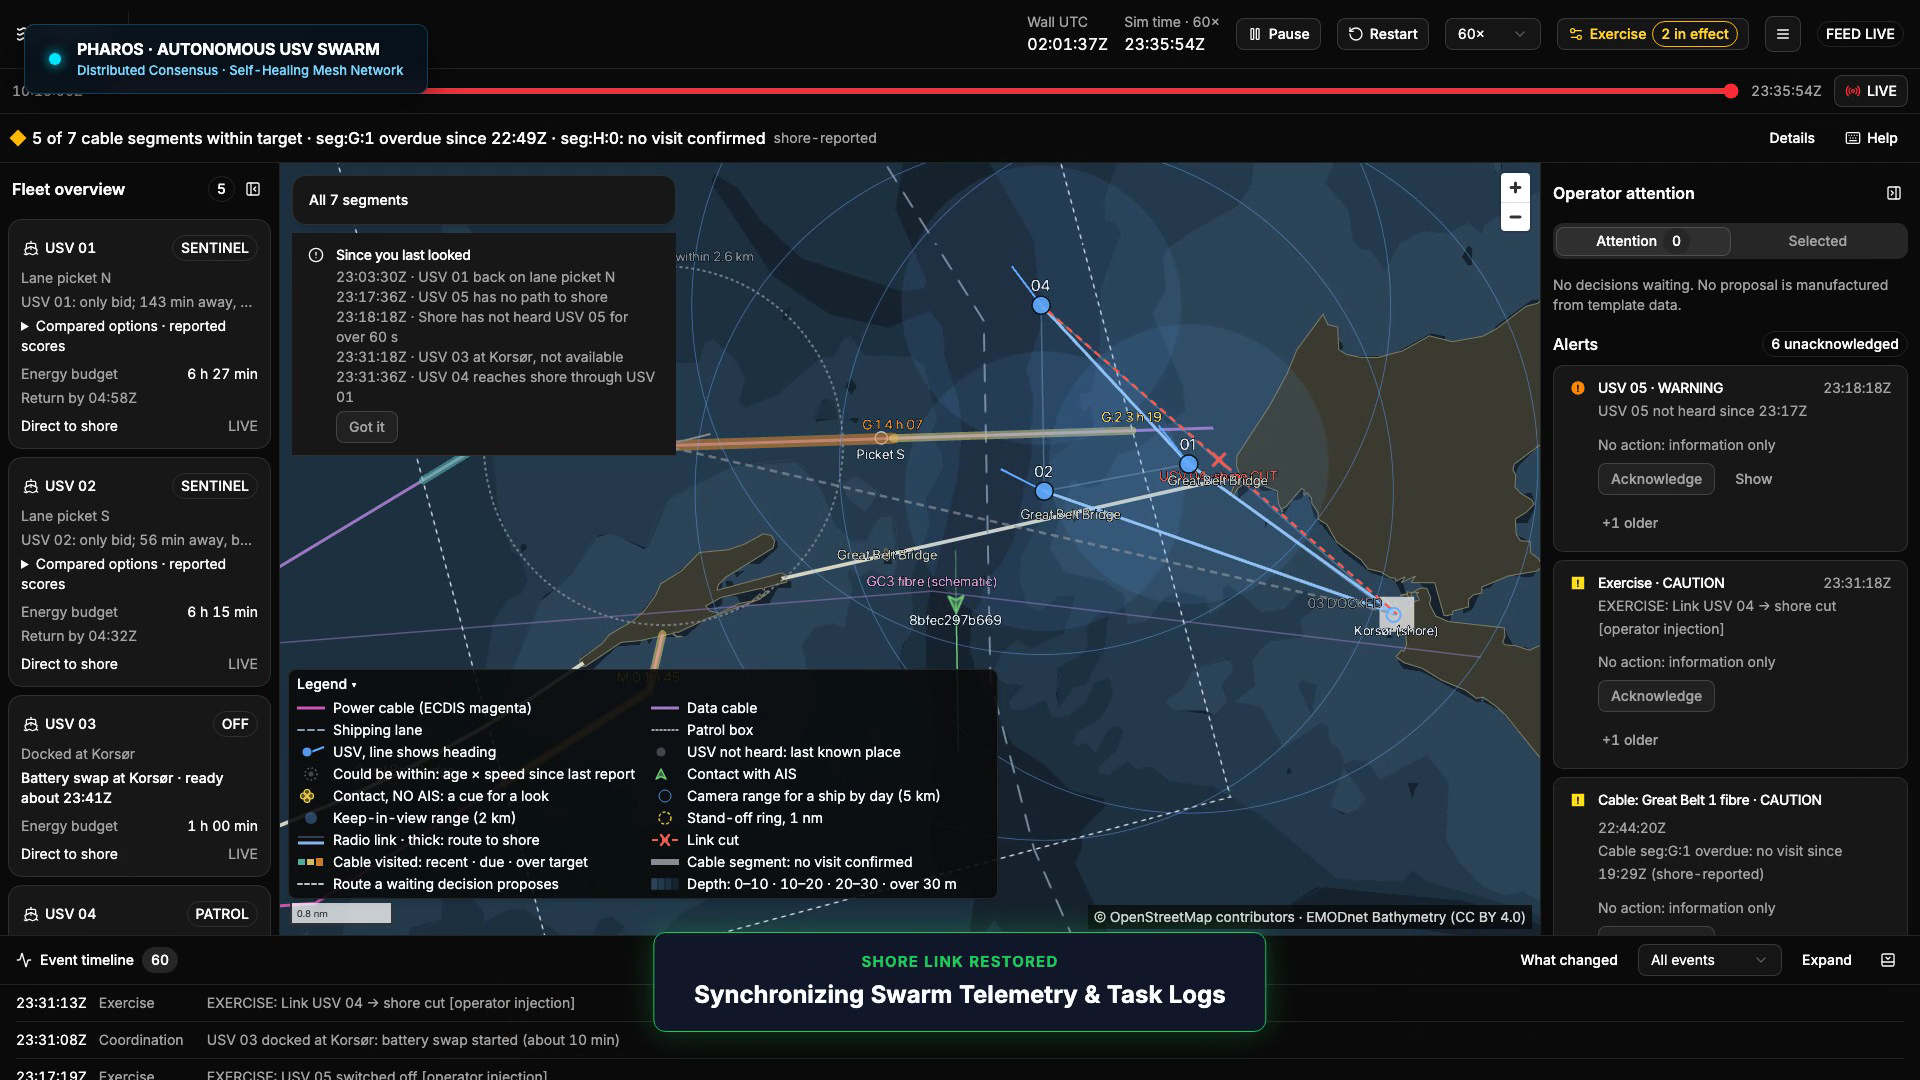
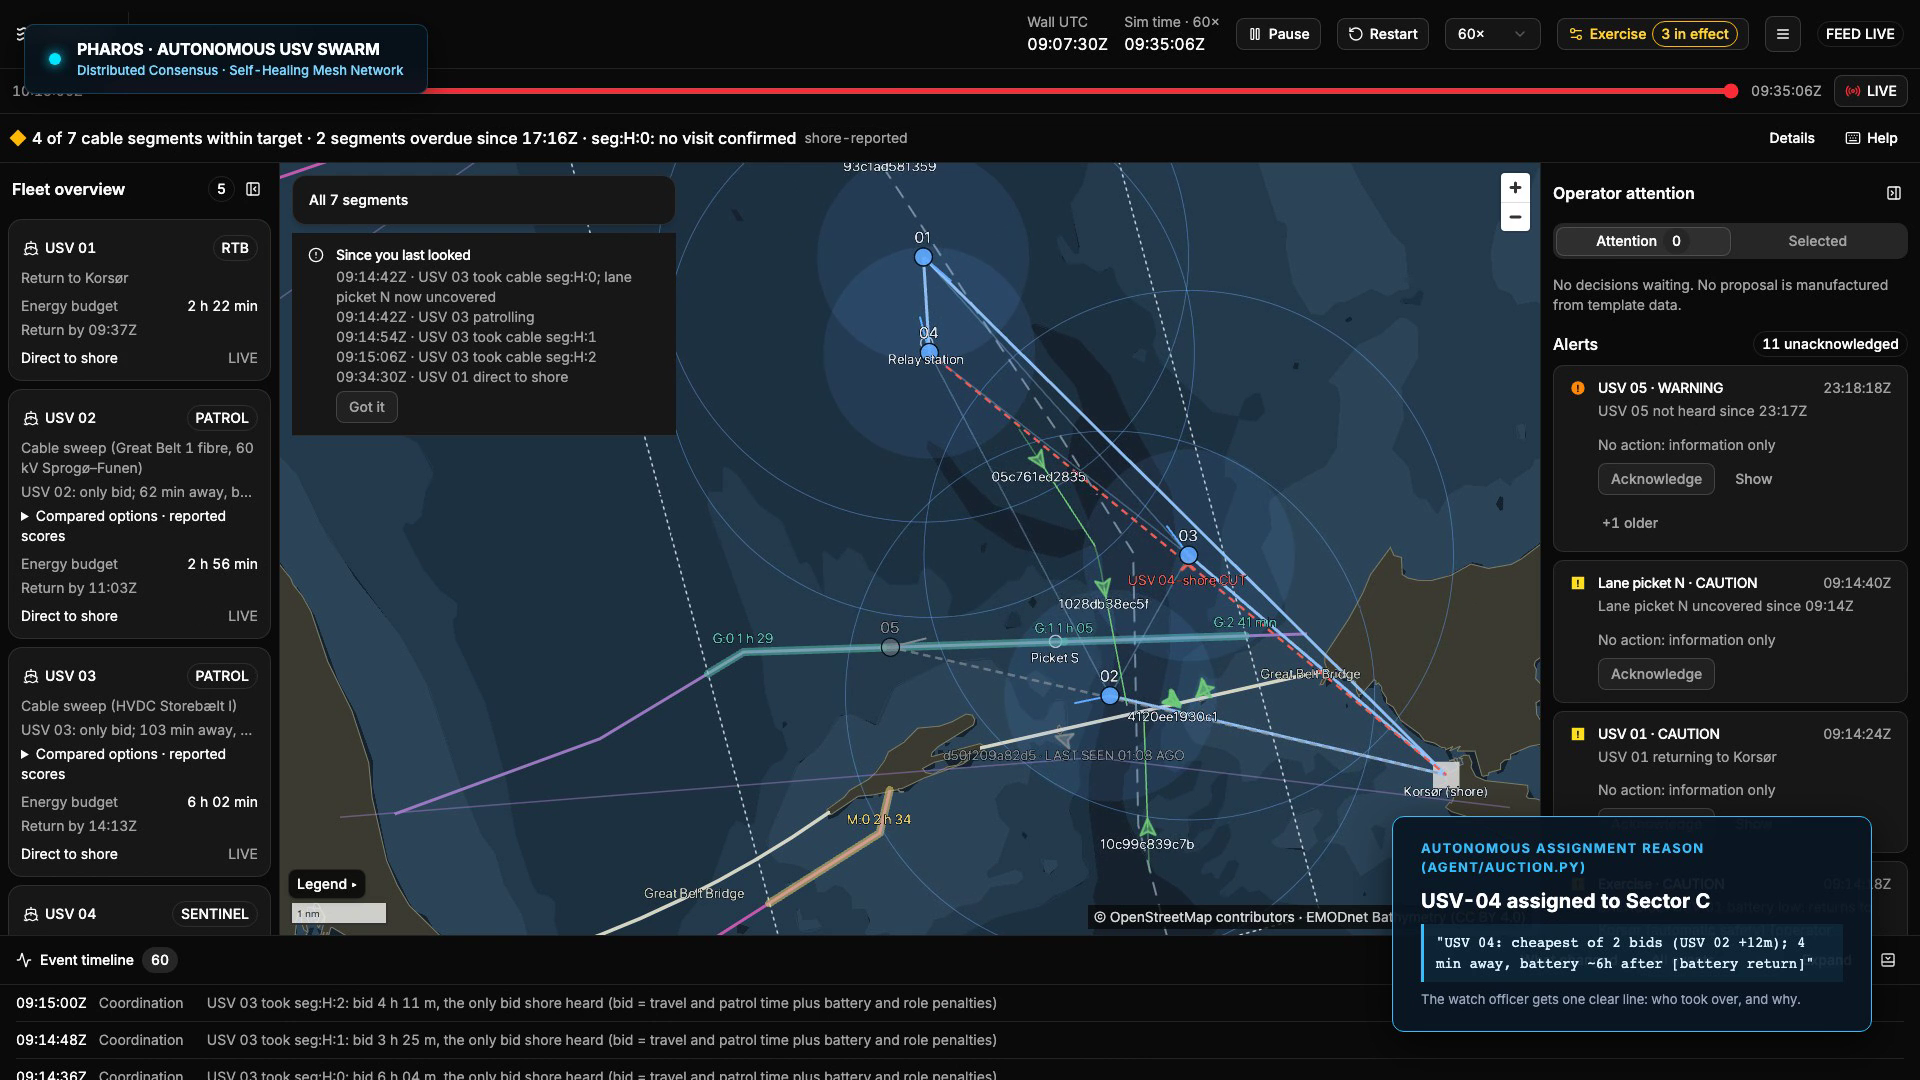
fix(pitch): keep legend closed during demo video recording

diff --git a/web/src/map/Legend.tsx b/web/src/map/Legend.tsx
@@ -3,6 +3,7 @@
 import { useState, type ReactElement } from "react";
 import * as T from "./theme";
 import { useStore } from "../store";
+import { PITCH_MODE } from "../types";
 import { CUT, ROUTE, UP } from "./comms";
 import { BAND_RGB, RING_DETECT, RING_KEEP, RING_STANDOFF } from "./Chart";
 
@@ -60,8 +61,8 @@ export function legendRows(r?: { detect_ship_day_m: number; keep_in_view_m: numb
 
 export function Legend() {
   const ranges = useStore((s) => s.scene?.ranges);
-  // open by default where it fits beside the box; on a 1280 px projector it starts folded to one line
-  const [open, setOpen] = useState(() => window.matchMedia("(min-width: 1440px)").matches);
+  // open by default where it fits beside the box; in pitch video mode or on small screens it stays closed
+  const [open, setOpen] = useState(() => !PITCH_MODE && window.matchMedia("(min-width: 1440px)").matches);
   return (
     <section aria-label="Chart legend" className="absolute bottom-9 left-2 z-10 max-w-[calc(100%_-_1rem)] rounded-md border bg-background/90 px-2 py-1 text-sm shadow-md">
       <button type="button" className="font-medium" aria-expanded={open} onClick={() => setOpen(!open)}>
